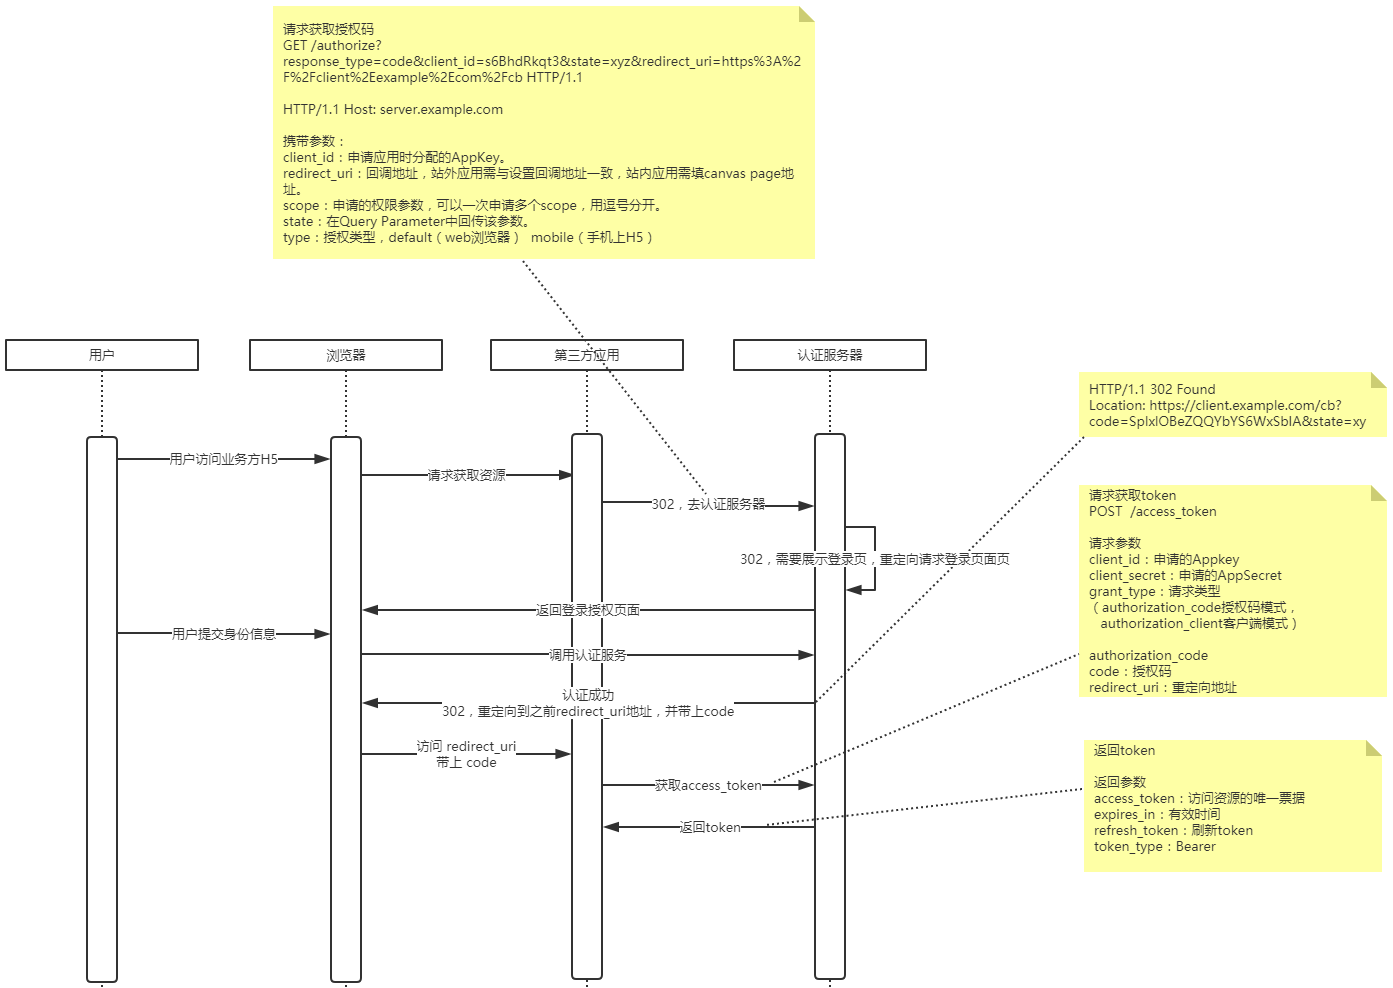
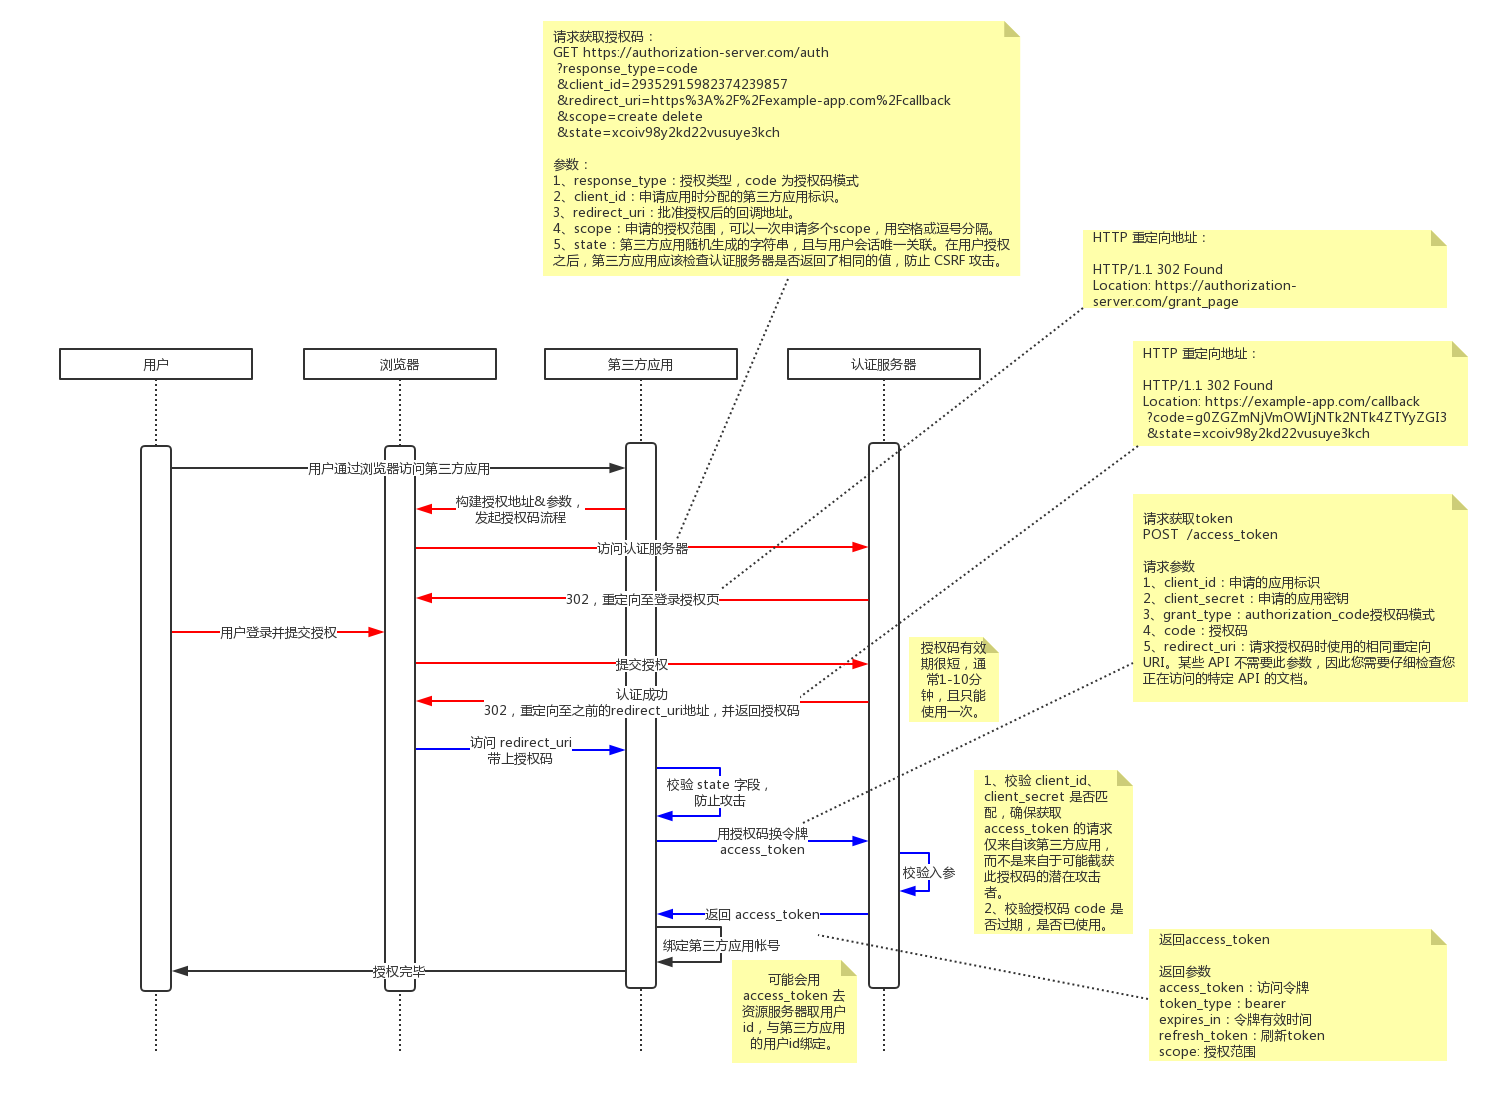
补充oauth2授权码模式

diff --git a/source/_posts/oauth2.md b/source/_posts/oauth2.md
@@ -1,11 +1,11 @@
 ---
-title: OAuth 2.0 几种授权方式总结
+title: OAuth 2.0 几种授权类型总结
 date: 2018-10-02 22:16:13
 updated:
 tags: 安全
 ---
 
-OAuth 2.0 定义了几种授权方式（[Grant Types](https://oauth.net/2/grant-types/)）：
+OAuth 2.0 协议中，术语“授权类型（grant type）”是指应用获取访问令牌（access token）的方式。OAuth 2.0 定义了几种授权类型（[Grant Types](https://oauth.net/2/grant-types/)）：
 
 - 授权码模式（[Authorization Code](https://oauth.net/2/grant-types/authorization-code/)）
 - 简化模式（[Implicit](https://oauth.net/2/grant-types/implicit/)），不建议使用
@@ -14,37 +14,48 @@ OAuth 2.0 定义了几种授权方式（[Grant Types](https://oauth.net/2/grant-
 - 设备码模式（[Device Code](https://oauth.net/2/grant-types/device-code/)）
 - 令牌刷新模式（[Refresh Token](https://oauth.net/2/grant-types/refresh-token/)）
 
-几种授权方式都有其对应的使用场景，各有利弊，但目的都是为了获取令牌，请求所需资源。可以将资源分为两种：
+几种授权类型都有其对应的使用场景，各有利弊，但目的都是为了获取令牌，请求所需资源。可以将资源分为两种：
 
-* 用户类资源，需要用户先授权。授权方式采用：授权码模式、密码模式、设备码模式；
-* 商户类资源，无需用户授权。授权方式采用：客户端模式。
+* 用户类资源：需要用户先授权。授权类型：授权码模式、密码模式、设备码模式；
+* 商户类资源：无需用户授权。授权类型：客户端模式。
 
-下表总结了其中三种主流授权方式下，申请 `access_token` 令牌的前置条件：
+下表总结了其中三种主流授权类型下，申请 `access_token` 令牌的前置条件：
 
 | 授权方式   | grant_type           | 授权的前置条件   | 描述                                                         |
 | ---------- | -------------------- | ---------------- | ------------------------------------------------------------ |
-| 授权码模式 | `authorization_code` | 授权码           | 这种模式是功能最完整、流程最严密的授权模式，第三方应用需要先获取**授权码**，才能申请到令牌。它的特点就是通过第三方应用的后台服务器，与“服务提供商”的认证服务器进行互动，通过授权码换令牌，**第三方应用不接触用户密码，安全性高**。 |
-| 密码模式   | `password`           | 用户的账号、密码 | 在这种模式下，用户必须把自己的**用户名和密码**发给第三方应用，第三方应用使用这些信息，向“服务提供商”索要授权。其风险在于第三方应用获知了密码。这通常用在用户对其高度信任的情况下，或者所有服务都由同一家公司提供。<br/>密码模式还有一种主流的变种，即使用**用户手机号和短信验证码**申请令牌，相比密码模式会更安全些。为了区分，可以自定义一个 `grant_type` 为 `sms_verify_code`。 |
+| 授权码模式 | `authorization_code` | 授权码           | 这种模式是最常见、功能最完整、流程最严密的授权模式，第三方应用需要先获取**授权码**，才能申请到令牌。它的特点就是通过第三方应用的后台服务器，与“服务提供商”的认证服务器进行互动，通过授权码换令牌，**第三方应用不接触用户密码，安全性高**。 |
+| 密码模式   | `password`           | 用户的账号、密码 | 这种模式通常用在用户对该应用高度信任的情况下，或者所有服务都由同一家公司提供。在这种模式下，用户必须把自己的**用户名和密码**发给应用。应用使用这些信息，再向“服务提供商”索要授权，其风险在于应用获知了密码。但应用无需存储密码，而是存储和使用令牌即可。<br/>密码模式还有一种主流的变种，即使用**用户手机号和短信验证码**申请令牌，相比密码模式会更安全些。为了区分，可以自定义一个 `grant_type` 为 `sms_verify_code`。 |
 | 客户端模式 | `client_credentials` | 无               | 第三方应用以自己的名义，而不是以用户的名义，向“服务提供商”进行认证。 |
 
 # 授权码模式
 
-附一张流程图，重点总结下授权码模式的整个流程：
+OAuth 旨在让用户能够对第三方应用授予有限的访问权限。第三方应用首先需要确定所需的权限，然后将用户导向浏览器以获得其授权。简单回顾下：
+
+![OAuth2 Authorization Code Flow](/img/security/oauth2.webp)
+
+要开始授权流程，第三方应用需要先构建 URL。这里附一张流程图，详细总结下授权码模式的整个流程：
 
 ![OAuth 2.0 授权码模式](/img/security/oauth2.png)
 
 交互方式上特别注意浏览器会进行几次 302 重定向。流程总结如下：
 
-1. 第三方应用首先向服务提供商申请 `client_id` 应用唯一标识、`client_secret` 密钥；
-2. 用户首次授权会 302 重定向到认证服务器：此时要提供预分配好的 `client_id` 标识来源，提供 `scope` 标识要申请的权限，提供 `redirect_uri` 标识授权完毕后要回跳的第三方应用的链接。
-3. 第二次 302 重定向：认证服务器展示登录页。
-4. 第三次 302 重定向：在用户提交授权，认证服务器认证成功后，会分配授权码 `code`，并重定向回第三方应用的 `redirect_uri` 。
-5. 最后，第三方应用会向认证服务器申请令牌 `access_token`，此时要提供预分配好的 `code`、`client_id`、`client_secret` 以便认证。这一步是在后端之间完成的，对用户不可见。
-6. `access_token` 是有有效期的，过期后需要刷新。
-7. 拿到令牌 `access_token` 后，第三方应用就可以访问资源方，获取所需资源。
+1. 第三方应用首先向服务提供商申请 `client_id` 应用唯一标识、`client_secret` 密钥，用于后续获取令牌时提供身份校验；
+2. 获取授权码：此时要提供预分配好的 `client_id` 标识来源，提供 `scope` 标识要申请的权限，提供 `redirect_uri` 标识授权完毕后要回跳的第三方应用的链接。
+3. 第一次 302 重定向：认证服务器展示登录授权页。
+4. 第二次 302 重定向：在用户提交授权，认证服务器认证成功后，会分配授权码 `code`，并重定向回第三方应用的 `redirect_uri` 。
+5. 建议第三方应用要根据当前用户会话生成随机且唯一的 `state` 参数，并在接收到授权码时先进行校验，避免 CSRF 攻击。
+6. 最后，第三方应用会向认证服务器申请令牌 `access_token`，此时要提供预分配好的 `code`、`client_id`、`client_secret` 以便认证。这一步是在后端之间完成的，对用户不可见。
+7. `access_token` 是有有效期的，过期后需要刷新。
+8. 拿到令牌 `access_token` 后，第三方应用就可以访问资源方，获取所需资源。`access_token` 相当于用户的 session id。
 
 # 参考
 
 https://oauth.net/2/
+
+[What the Heck is OAuth?](https://developer.okta.com/blog/2017/06/21/what-the-heck-is-oauth)
+
 https://developer.linkedin.com/zh-cn/docs/oauth2
+
 http://www.ruanyifeng.com/blog/2014/05/oauth_2_0.html
+
+[移花接木：针对OAuth2的CSRF攻击](https://www.jianshu.com/p/c7c8f51713b6)
